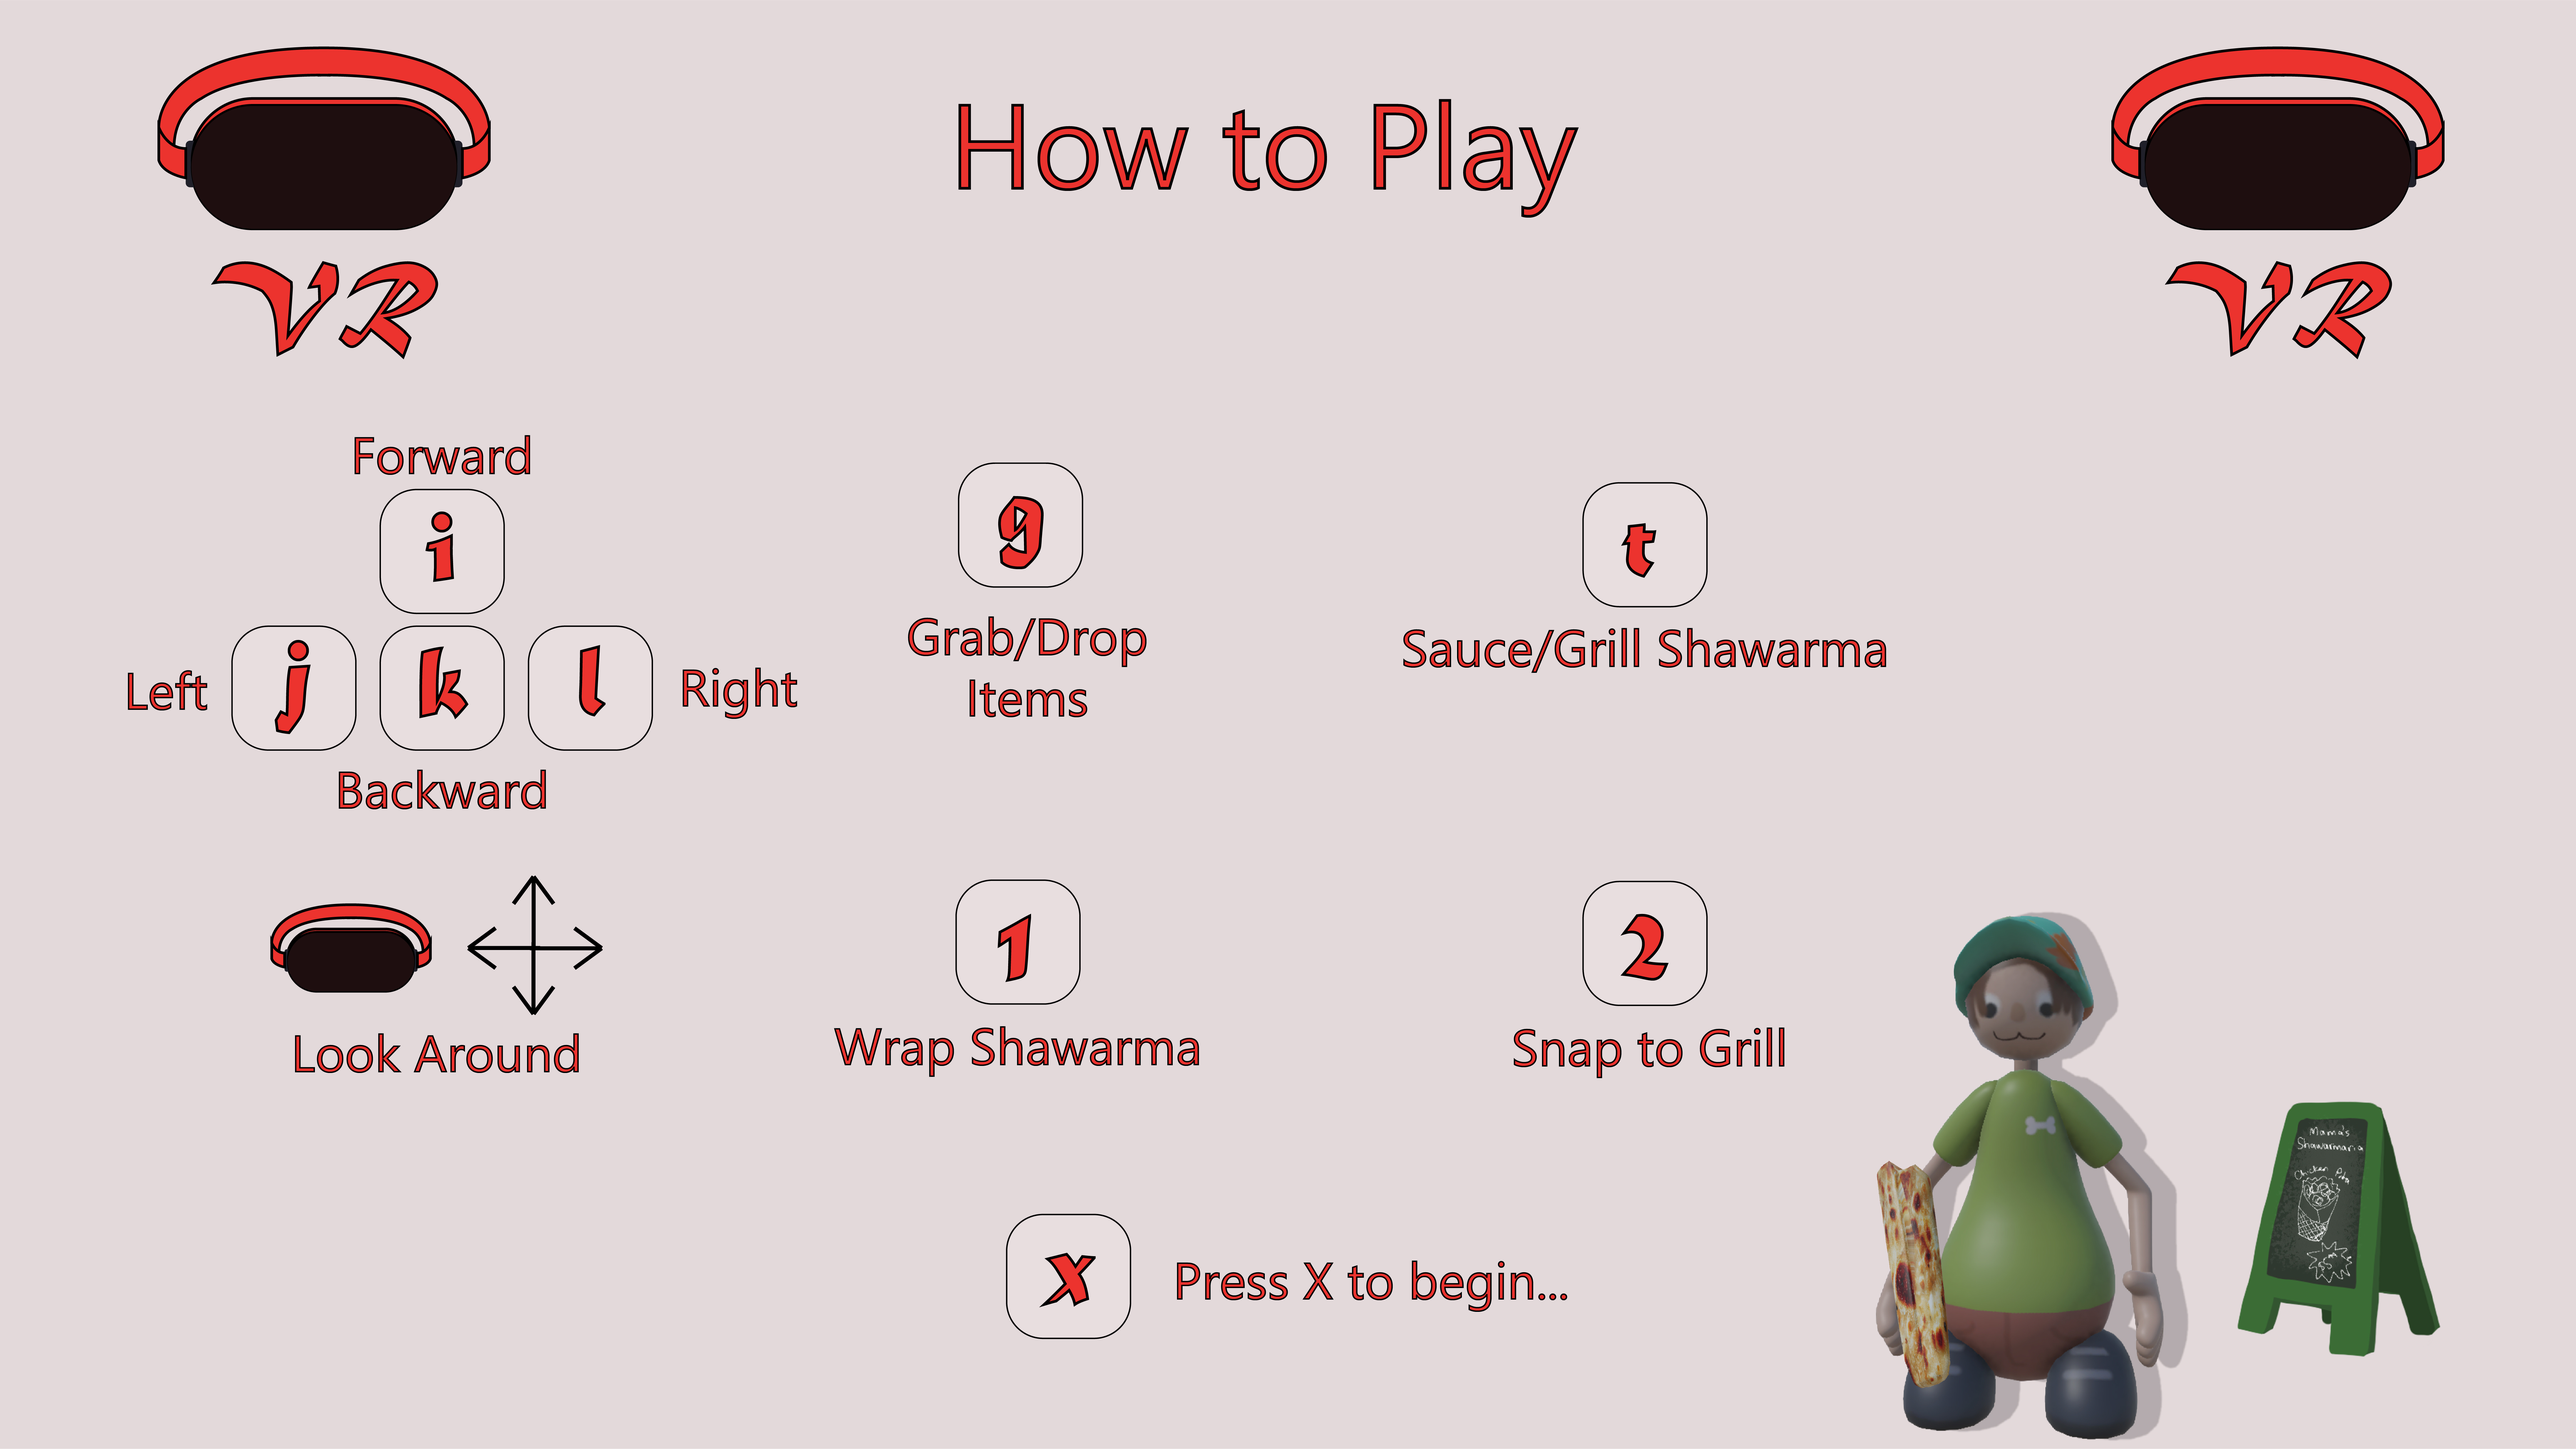
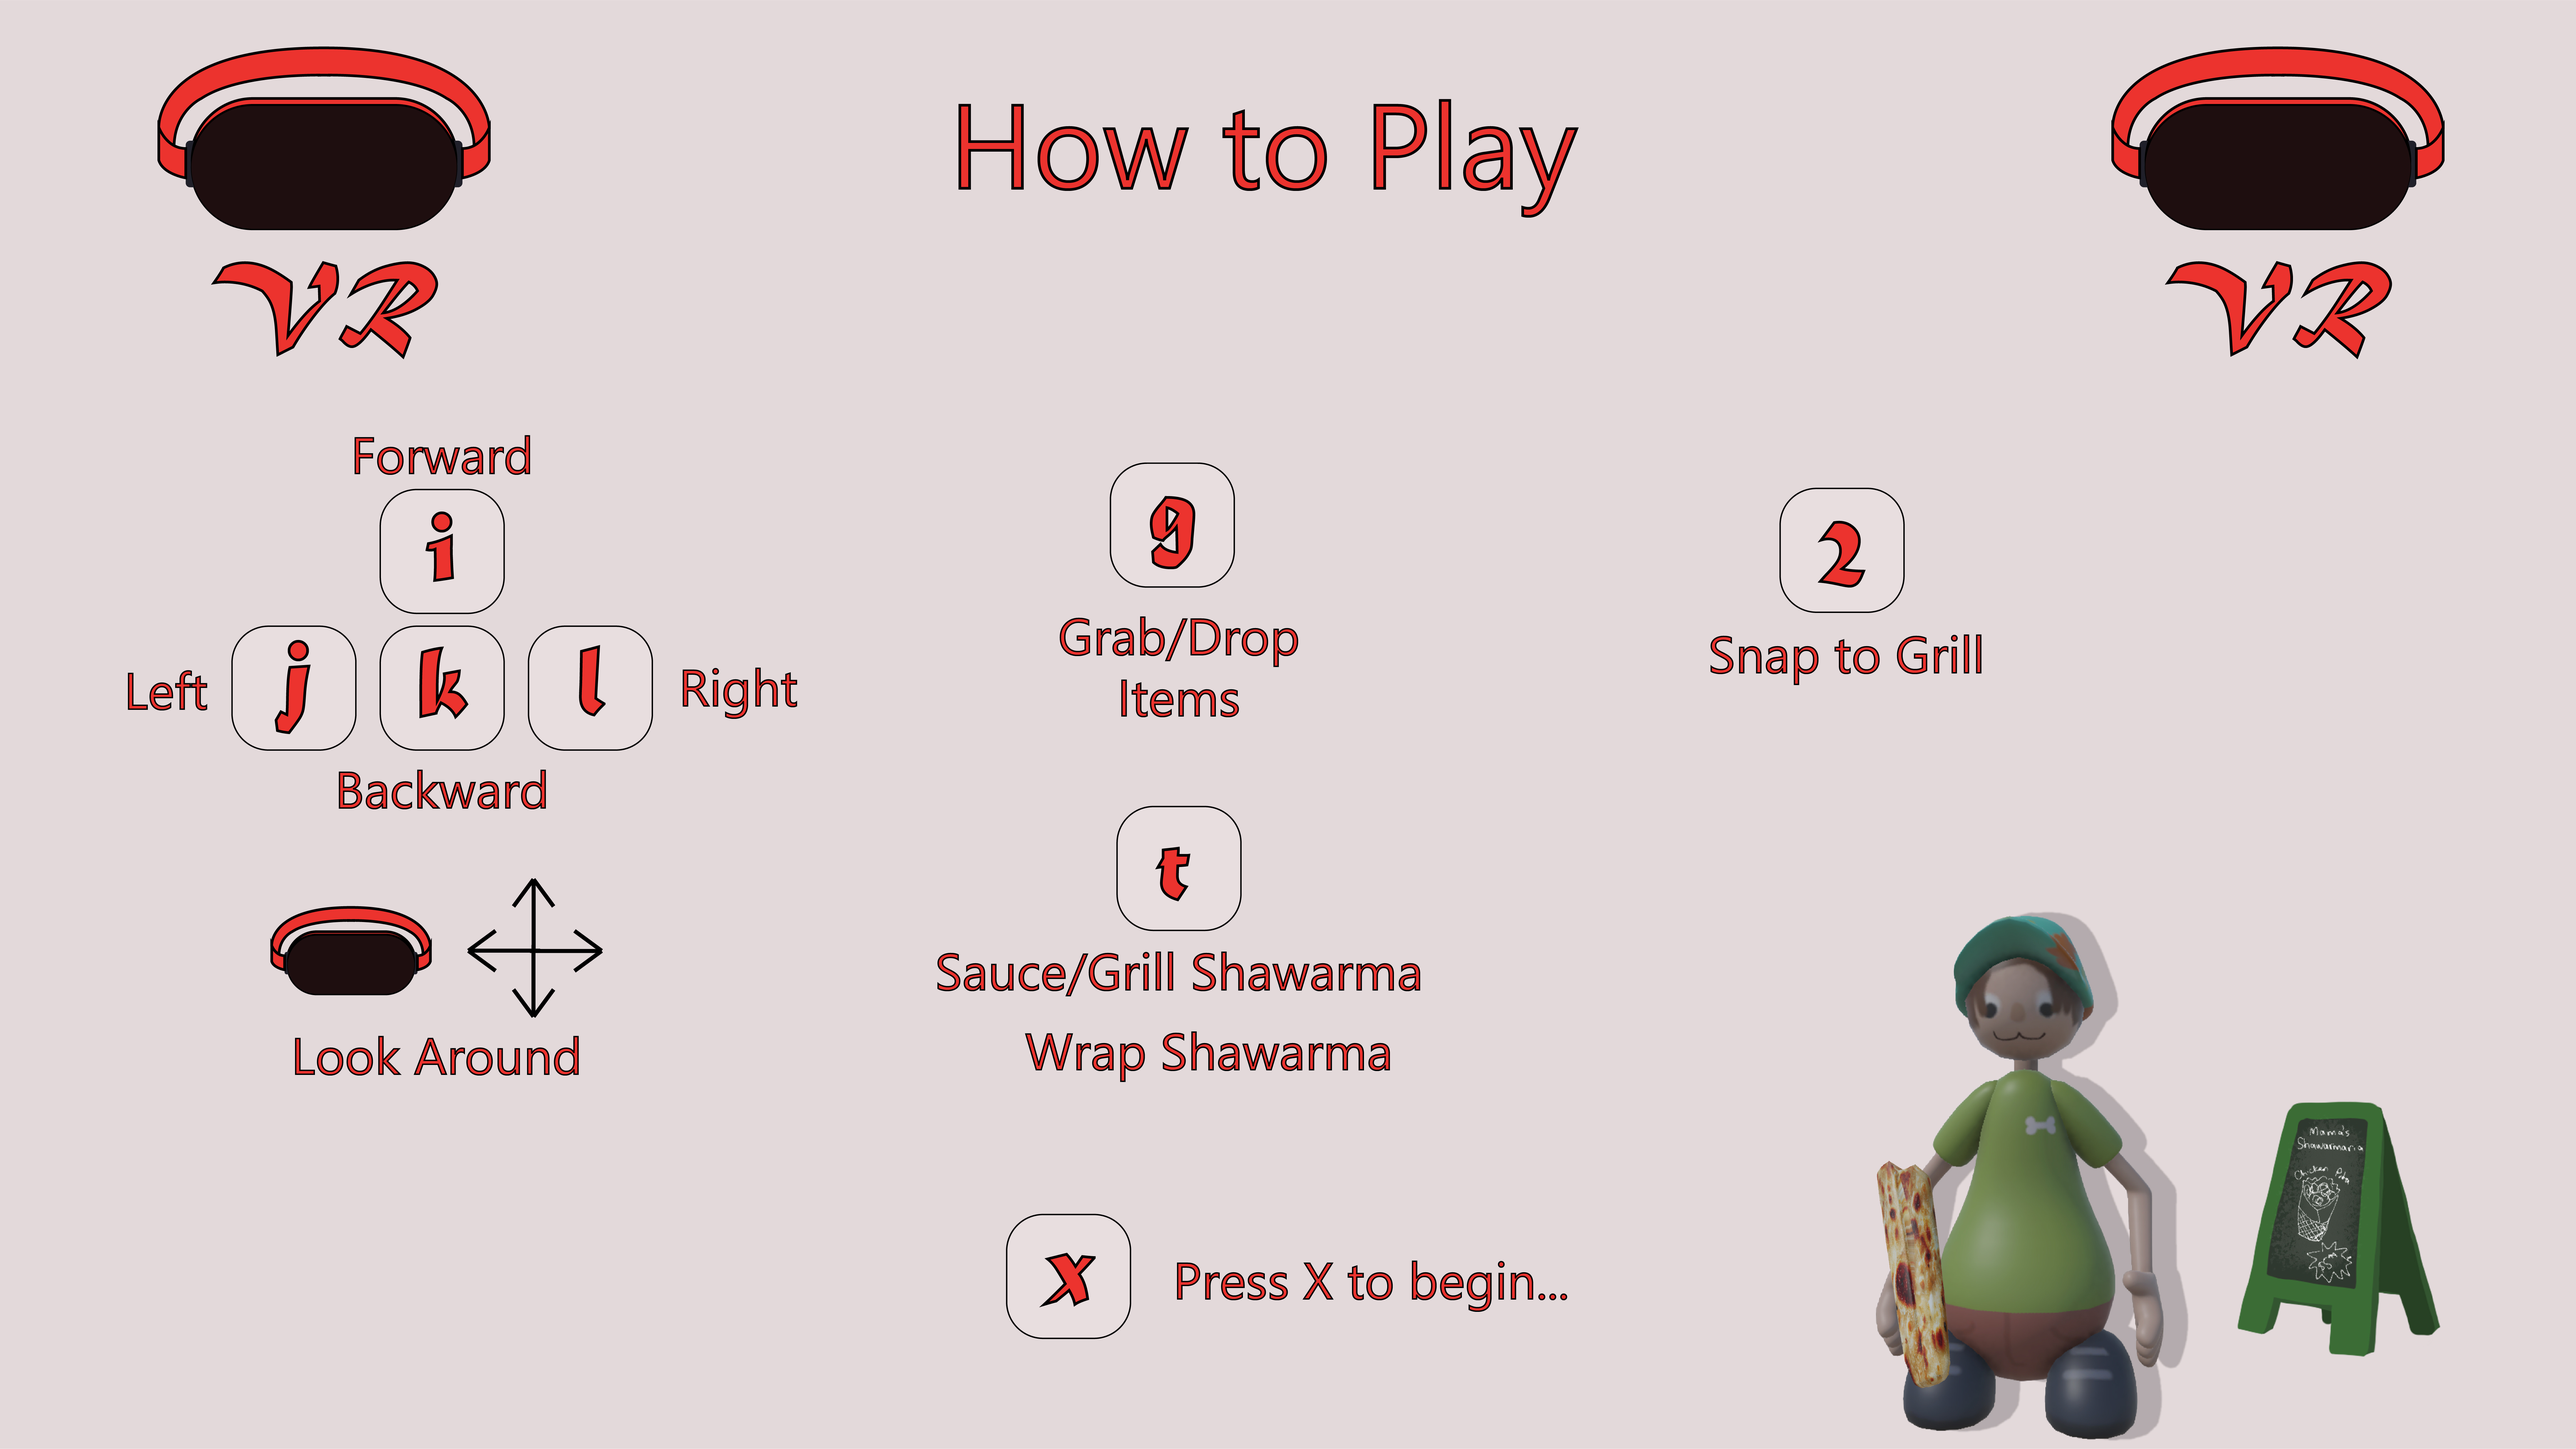
Adding Instructions for both VR and Desktop in Level 1.

diff --git a/Group5_IMD3901_TP/Assets/Scripts/Hamid Scripts/InstructionManager.cs b/Group5_IMD3901_TP/Assets/Scripts/Hamid Scripts/InstructionManager.cs
@@ -1,0 +1,47 @@
+using UnityEngine;
+using UnityEngine.InputSystem;
+
+public class InstructionManager : MonoBehaviour
+{
+    [Header("Instructions")]
+    public GameObject desktopInstructions;
+    public GameObject vrInstructions;
+
+    [Header("Players")]
+    public GameObject desktopPlayer;
+    public GameObject vrPlayer;
+
+    void Start()
+    {
+        desktopInstructions.SetActive(false);
+        vrInstructions.SetActive(false);
+
+        // Checking which player is currently active in the scene and show their instructions
+        if (vrPlayer != null && vrPlayer.activeInHierarchy)
+        {
+            vrInstructions.SetActive(true);
+        }
+        else if (desktopPlayer != null && desktopPlayer.activeInHierarchy)
+        {
+            desktopInstructions.SetActive(true);
+        }
+    }
+
+    void Update()
+    {
+        // If X is pressed, hide everything to begin the game
+        if (Keyboard.current.xKey.wasPressedThisFrame)
+        {
+            StartGame();
+        }
+    }
+
+    void StartGame()
+    {
+        desktopInstructions.SetActive(false);
+        vrInstructions.SetActive(false);
+
+        Debug.Log("Instructions Hidden");
+        // You can add logic here to enable player movement if it was frozen
+    }
+}
